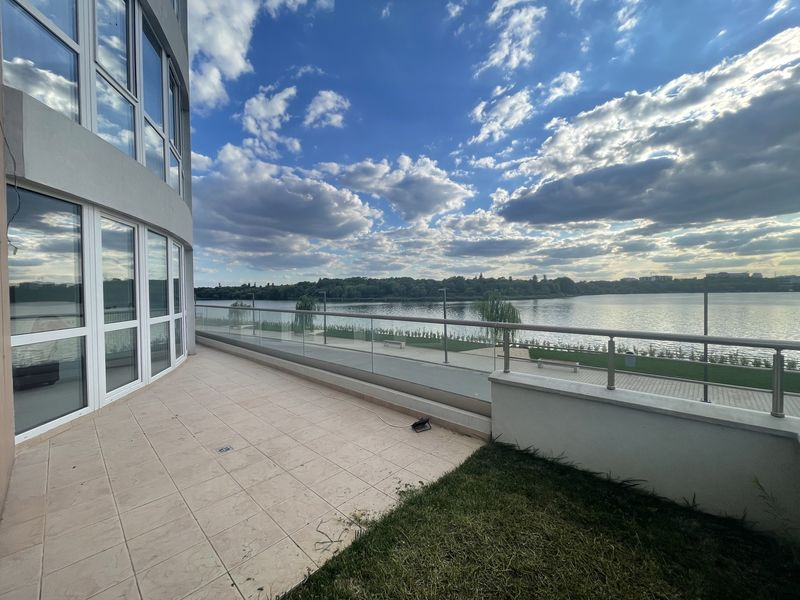
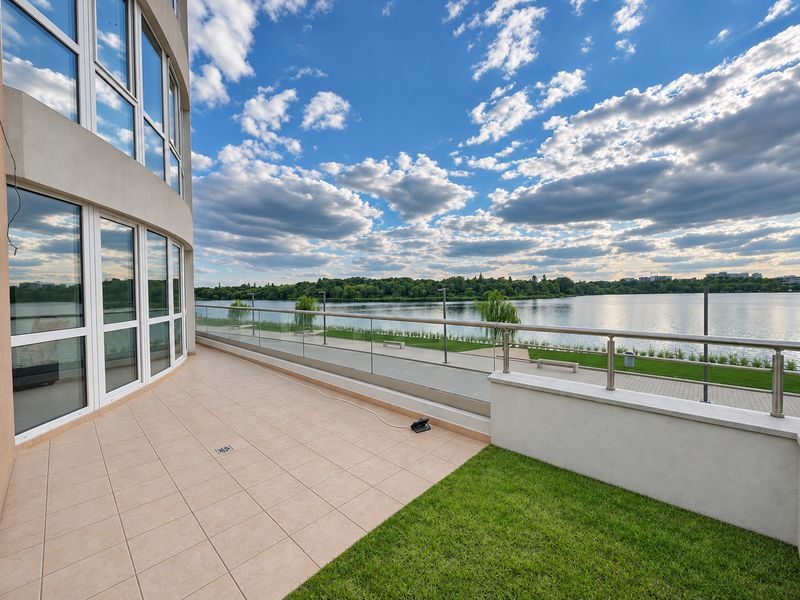
A5 ap. 7: poza reală nouă, prima în carusel
Claude-Session: https://claude.ai/code/session_016XU3Y6aCFi2UesKfgfxGDj

diff --git a/en/index.html b/en/index.html
@@ -300,7 +300,7 @@ const UNITS=[
    legend:"1 Living room 29.0 · 2 Kitchen 11.8 · 3 Entrance hall 9.0 · 4 Bedroom 9.8 · 5 Bedroom 10.2 · 6 Hallway 5.6 · 7 Guest WC 2.2 · 8 Bathroom 4.8 · 9 Bathroom 5.9 · 10 Walk-in closet 4.3 · 11 Bedroom 22.1 · 12 Office 9.7 · 13 Terrace 118.0"},
   {id:"A5-8",bloc:"A5",ap:"8",tip:"Studio",etaj:"Ground floor",util:32.5,ext:"10.1",extL:"Garden",total:42.6,constr:50.4,lista:75000,nou:65000,v3d:1,rooms:"23.2 m² living room · private garden",
    legend:"1 Hallway 2.5 · 2 Kitchen 2.5 · 3 Living room 23.2 · 4 Bathroom 4.3 · 5 Garden 10.1"},
-  {id:"A5-7",bloc:"A5",ap:"7",tip:"3-room apartment",etaj:"Ground floor",util:74.4,ext:"41.0",extL:"Terrace",total:115.4,constr:133.3,lista:210000,nou:185000,v3d:1,foto:["A5-7-1"],rooms:"2 bedrooms · 2 bathrooms · 41 m² terrace",
+  {id:"A5-7",bloc:"A5",ap:"7",tip:"3-room apartment",etaj:"Ground floor",util:74.4,ext:"41.0",extL:"Terrace",total:115.4,constr:133.3,lista:210000,nou:185000,v3d:1,foto:["A5-7-1"],fotoFirst:1,rooms:"2 bedrooms · 2 bathrooms · 41 m² terrace",
    legend:"1 Hallway 11.2 · 2 Bathroom 2.6 · 3 Kitchen 6.8 · 4 Living room 23.9 · 5 Bedroom 12.1 · 6 Bedroom 13.3 · 7 Bathroom 4.5 · 8 Terrace 41.0"},
   {id:"A5-405",bloc:"A5",ap:"405",tip:"Penthouse",etaj:"Floor 4",util:71.7,ext:"101.1",extL:"Terrace",total:172.8,constr:193.0,lista:300000,nou:250000,v3d:1,rooms:"2 bedrooms · 2 bathrooms · 101 m² terrace",
    legend:"1 Hallway 8.1 · 2 Bathroom 2.9 · 3 Bathroom 4.9 · 4 Bedroom 13.6 · 5 Bedroom 11.9 · 6 Living room 21.9 · 7 Kitchen 8.4 · 8 Terrace 101.1"}
@@ -316,9 +316,9 @@ const planSrc=u=>"../planuri/"+u.id+".jpg";
 const view={};
 const p3dSrc=(u,card)=>"../planuri-3d/"+u.id+(card?"-card":"")+".jpg";
 const fotoSrc=(f,card)=>"../foto/"+f+(card?"-card":"")+".jpg";
-const SL={"3d":"3D plan","rel":"Cadastral survey plan","foto":"Photo"};
+const SL={"3d":"3D plan","rel":"Cadastral survey plan","foto":"Actual photo"};
 /* Slides per unit: 3D plan (if any), cadastral plan, then interior photos (if any) */
-const slides=u=>{const a=[];if(u.v3d)a.push({k:"3d",card:p3dSrc(u,1),full:p3dSrc(u,0)});a.push({k:"rel",card:planSrc(u),full:planSrc(u)});(u.foto||[]).forEach(f=>a.push({k:"foto",card:fotoSrc(f,1),full:fotoSrc(f,0)}));return a};
+const slides=u=>{const a=[],ph=(u.foto||[]).map(f=>({k:"foto",card:fotoSrc(f,1),full:fotoSrc(f,0)}));if(u.fotoFirst)a.push(...ph);if(u.v3d)a.push({k:"3d",card:p3dSrc(u,1),full:p3dSrc(u,0)});a.push({k:"rel",card:planSrc(u),full:planSrc(u)});if(!u.fotoFirst)a.push(...ph);return a};
 const curIdx=u=>{const n=slides(u).length;return Math.min(view[u.id]||0,n-1)};
 const m2=n=>n.toFixed(1);
 

diff --git a/index.html b/index.html
@@ -300,7 +300,7 @@ const UNITS=[
    legend:"1 Cameră de zi 29,0 · 2 Bucătărie 11,8 · 3 Hol intrare 9,0 · 4 Dormitor 9,8 · 5 Dormitor 10,2 · 6 Hol 5,6 · 7 WC serviciu 2,2 · 8 Baie 4,8 · 9 Baie 5,9 · 10 Dressing 4,3 · 11 Dormitor 22,1 · 12 Office 9,7 · 13 Terasă 118,0"},
   {id:"A5-8",bloc:"A5",ap:"8",tip:"Garsonieră",etaj:"Parter",util:32.5,ext:"10,1",extL:"Grădină",total:42.6,constr:50.4,lista:75000,nou:65000,v3d:1,rooms:"Cameră de zi 23,2 m² · grădină privată",
    legend:"1 Hol 2,5 · 2 Bucătărie 2,5 · 3 Cameră de zi 23,2 · 4 Baie 4,3 · 5 Grădină 10,1"},
-  {id:"A5-7",bloc:"A5",ap:"7",tip:"3 camere",etaj:"Parter",util:74.4,ext:"41,0",extL:"Terasă",total:115.4,constr:133.3,lista:210000,nou:185000,v3d:1,foto:["A5-7-1"],rooms:"2 dormitoare · 2 băi · terasă de 41 m²",
+  {id:"A5-7",bloc:"A5",ap:"7",tip:"3 camere",etaj:"Parter",util:74.4,ext:"41,0",extL:"Terasă",total:115.4,constr:133.3,lista:210000,nou:185000,v3d:1,foto:["A5-7-1"],fotoFirst:1,rooms:"2 dormitoare · 2 băi · terasă de 41 m²",
    legend:"1 Hol 11,2 · 2 Baie 2,6 · 3 Bucătărie 6,8 · 4 Cameră de zi 23,9 · 5 Dormitor 12,1 · 6 Dormitor 13,3 · 7 Baie 4,5 · 8 Terasă 41,0"},
   {id:"A5-405",bloc:"A5",ap:"405",tip:"Penthouse",etaj:"Etaj 4",util:71.7,ext:"101,1",extL:"Terasă",total:172.8,constr:193.0,lista:300000,nou:250000,v3d:1,rooms:"2 dormitoare · 2 băi · terasă de 101 m²",
    legend:"1 Hol 8,1 · 2 Baie 2,9 · 3 Baie 4,9 · 4 Dormitor 13,6 · 5 Dormitor 11,9 · 6 Cameră de zi 21,9 · 7 Bucătărie 8,4 · 8 Terasă 101,1"}
@@ -316,9 +316,9 @@ const planSrc=u=>"planuri/"+u.id+".jpg";
 const view={};
 const p3dSrc=(u,card)=>"planuri-3d/"+u.id+(card?"-card":"")+".jpg";
 const fotoSrc=(f,card)=>"foto/"+f+(card?"-card":"")+".jpg";
-const SL={"3d":"Schiță 3D","rel":"Plan din releveu","foto":"Fotografie"};
+const SL={"3d":"Schiță 3D","rel":"Plan din releveu","foto":"Fotografie reală"};
 /* Slides per unit: 3D plan (if any), cadastral plan, then interior photos (if any) */
-const slides=u=>{const a=[];if(u.v3d)a.push({k:"3d",card:p3dSrc(u,1),full:p3dSrc(u,0)});a.push({k:"rel",card:planSrc(u),full:planSrc(u)});(u.foto||[]).forEach(f=>a.push({k:"foto",card:fotoSrc(f,1),full:fotoSrc(f,0)}));return a};
+const slides=u=>{const a=[],ph=(u.foto||[]).map(f=>({k:"foto",card:fotoSrc(f,1),full:fotoSrc(f,0)}));if(u.fotoFirst)a.push(...ph);if(u.v3d)a.push({k:"3d",card:p3dSrc(u,1),full:p3dSrc(u,0)});a.push({k:"rel",card:planSrc(u),full:planSrc(u)});if(!u.fotoFirst)a.push(...ph);return a};
 const curIdx=u=>{const n=slides(u).length;return Math.min(view[u.id]||0,n-1)};
 const m2=n=>n.toFixed(1).replace(".",",");
 
